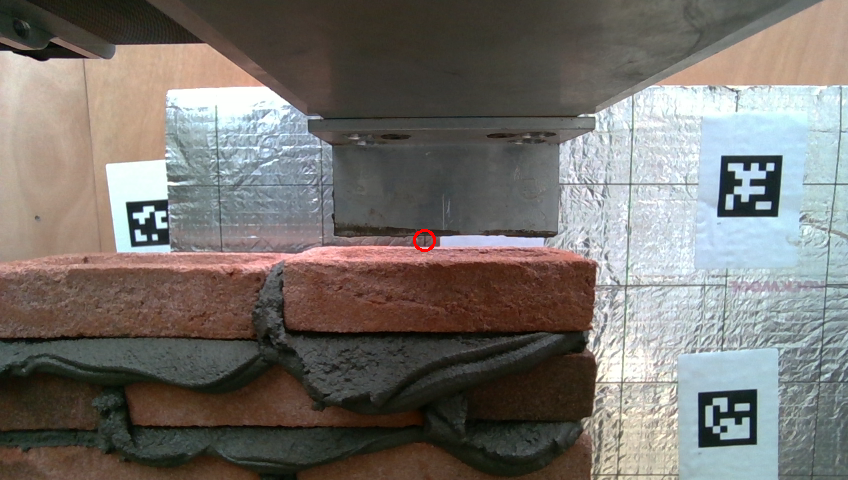
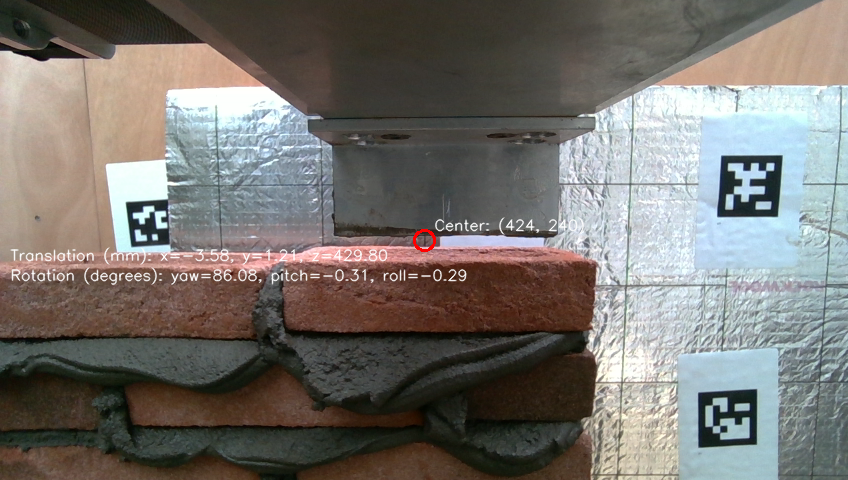
visualization

Changed region(s): [[0.0, 0.5, 0.5519, 0.5938], [0.5212, 0.4375, 0.6745, 0.5]]

diff --git a/templates/result.html b/templates/result.html
@@ -144,8 +144,9 @@
             </div>
             <div class="section">
                 <h2>Estimated 3D Pose Visualization</h2>
-                <img src="{{ result.pose_visualization_path }}" alt="Estimated 3D Pose">
+                <img src="{{ result.pose_visualization_path }}" alt="Estimated 3D Pose Visualization">
             </div>
+            
         {% endif %}
     </div>
     <div class="footer">

diff --git a/image_processing/image_processing.py b/image_processing/image_processing.py
@@ -56,7 +56,7 @@ def detect_brick_in_center(depth_image):
     print("No suitable contour found.")
     return None, (center_x, center_y)
 
-def draw_brick_boundaries(image, contour, center):
+def draw_brick_boundaries(image, contour, center, translation, rotation):
     # Draw the contour if available
     if contour is not None:
         cv2.drawContours(image, [contour], -1, (0, 255, 0), 2)
@@ -69,7 +69,36 @@ def draw_brick_boundaries(image, contour, center):
     cv2.putText(image, center_coords, (center[0] + 10, center[1] - 10), 
                 cv2.FONT_HERSHEY_SIMPLEX, 0.5, (255, 255, 255), 1, cv2.LINE_AA)
 
+    # Display 3D Pose Information
+    pose_text = (f"Translation (mm): x={translation[0]:.2f}, y={translation[1]:.2f}, z={translation[2]:.2f}\n"
+                 f"Rotation (degrees): yaw={rotation['yaw']:.2f}, pitch={rotation['pitch']:.2f}, roll={rotation['roll']:.2f}")
+    y_offset = center[1] + 20
+    for i, line in enumerate(pose_text.split('\n')):
+        cv2.putText(image, line, (10, y_offset + i * 20), cv2.FONT_HERSHEY_SIMPLEX, 0.5, (255, 255, 255), 1, cv2.LINE_AA)
+
     print("Drawing completed. Center coordinates:", center_coords)
+    print("3D Pose Information:", pose_text)
+
+    # Visualization of the Estimated 3D Pose
+    # Draw translation vector as an arrow
+    origin = (int(center[0]), int(center[1]))
+    translation_vector = (int(center[0] + translation[0] * 10), int(center[1] - translation[1] * 10))
+    cv2.arrowedLine(image, origin, translation_vector, (255, 255, 0), 2, tipLength=0.3)
+
+    # Visualize rotation using small arrows
+    rotation_vectors = {
+        'yaw': (np.cos(np.radians(rotation['yaw'])), np.sin(np.radians(rotation['yaw']))),
+        'pitch': (np.cos(np.radians(rotation['pitch'])), np.sin(np.radians(rotation['pitch']))),
+        'roll': (np.cos(np.radians(rotation['roll'])), np.sin(np.radians(rotation['roll'])))
+    }
+
+    # Drawing the rotation vectors
+    for angle_name, vector in rotation_vectors.items():
+        end_point = (int(center[0] + vector[0] * 50), int(center[1] + vector[1] * 50))
+        cv2.arrowedLine(image, origin, end_point, (0, 255, 255), 2, tipLength=0.3)
+        cv2.putText(image, angle_name, end_point, cv2.FONT_HERSHEY_SIMPLEX, 0.5, (0, 255, 255), 1, cv2.LINE_AA)
+
+    print("3D Pose Visualization drawn on image.")
 
 def calculate_3d_pose(depth_image, camera_params):
     fx = camera_params['fx']
@@ -112,7 +141,6 @@ def calculate_3d_pose(depth_image, camera_params):
     rotation_dict = {'yaw': rotation[0], 'pitch': rotation[1], 'roll': rotation[2]}
 
     return translation, rotation_dict
-
 def process_images_and_save_rgbd(folder_path):
     color_image_path = os.path.join(folder_path, 'color.png')
     depth_image_path = os.path.join(folder_path, 'depth.png')
@@ -136,26 +164,54 @@ def process_images_and_save_rgbd(folder_path):
     # Detect the brick and highlight it in the processed image
     brick_contour, center = detect_brick_in_center(depth_image)
     processed_image = color_image.copy()  # Use the original color image for drawing
+
+    # Calculate 3D pose
+    translation, rotation = calculate_3d_pose(depth_image, camera_params)
+
     if brick_contour is not None:
-        draw_brick_boundaries(processed_image, brick_contour, center)
+        draw_brick_boundaries(processed_image, brick_contour, center, translation, rotation)
     else:
         cv2.circle(processed_image, center, 10, (0, 0, 255), 2)  # Mark center if no contour found
         center_coords = f"Center: ({center[0]}, {center[1]})"
         cv2.putText(processed_image, center_coords, (center[0] + 10, center[1] - 10), 
                     cv2.FONT_HERSHEY_SIMPLEX, 0.5, (255, 255, 255), 1, cv2.LINE_AA)
+        # Display 3D Pose Information
+        pose_text = (f"Translation (mm): x={translation[0]:.2f}, y={translation[1]:.2f}, z={translation[2]:.2f}\n"
+                     f"Rotation (degrees): yaw={rotation['yaw']:.2f}, pitch={rotation['pitch']:.2f}, roll={rotation['roll']:.2f}")
+        y_offset = center[1] + 20
+        for i, line in enumerate(pose_text.split('\n')):
+            cv2.putText(processed_image, line, (10, y_offset + i * 20), cv2.FONT_HERSHEY_SIMPLEX, 0.5, (255, 255, 255), 1, cv2.LINE_AA)
+
+        # Visualization of the Estimated 3D Pose
+        # Draw translation vector as an arrow
+        origin = (int(center[0]), int(center[1]))
+        translation_vector = (int(center[0] + translation[0] * 10), int(center[1] - translation[1] * 10))
+        cv2.arrowedLine(processed_image, origin, translation_vector, (255, 255, 0), 2, tipLength=0.3)
+
+        # Visualize rotation using small arrows
+        rotation_vectors = {
+            'yaw': (np.cos(np.radians(rotation['yaw'])), np.sin(np.radians(rotation['yaw']))),
+            'pitch': (np.cos(np.radians(rotation['pitch'])), np.sin(np.radians(rotation['pitch']))),
+            'roll': (np.cos(np.radians(rotation['roll'])), np.sin(np.radians(rotation['roll'])))
+        }
+
+        # Drawing the rotation vectors
+        for angle_name, vector in rotation_vectors.items():
+            end_point = (int(center[0] + vector[0] * 50), int(center[1] + vector[1] * 50))
+            cv2.arrowedLine(processed_image, origin, end_point, (0, 255, 255), 2, tipLength=0.3)
+            cv2.putText(processed_image, angle_name, end_point, cv2.FONT_HERSHEY_SIMPLEX, 0.5, (0, 255, 255), 1, cv2.LINE_AA)
 
     results_dir = os.path.join(settings.MEDIA_ROOT, 'results')
     os.makedirs(results_dir, exist_ok=True, mode=0o755)
     
     rgbd_image_path = os.path.join(results_dir, f'{os.path.basename(folder_path)}_rgbd.png')
     processed_image_path = os.path.join(results_dir, f'{os.path.basename(folder_path)}_processed.png')
+    pose_visualization_path = os.path.join(results_dir, f'{os.path.basename(folder_path)}_pose_visualization.png')
 
     # Save images
     cv2.imwrite(rgbd_image_path, rgbd_image)
     cv2.imwrite(processed_image_path, processed_image)
-
-    # Calculate 3D pose
-    translation, rotation = calculate_3d_pose(depth_image, camera_params)
+    cv2.imwrite(pose_visualization_path, processed_image)
 
     # Return the paths and pose information
-    return rgbd_image_path, processed_image_path, np.mean(rgbd_image), translation, rotation
+    return rgbd_image_path, processed_image_path, pose_visualization_path, np.mean(rgbd_image), translation, rotation

diff --git a/brickpose/views.py b/brickpose/views.py
@@ -81,6 +81,7 @@ def display_results(request):
     depth_image_path = None
     rgbd_image_path = None
     processed_image_path = None
+    pose_visualization_path = None
     processed_image_mean_intensity = None
     camera_params = None
     formatted_translation = None
@@ -91,13 +92,16 @@ def display_results(request):
         color_image_path = os.path.join(settings.MEDIA_URL, 'place_quality_inputs', selected_folder, 'color.png')
         depth_image_path = os.path.join(settings.MEDIA_URL, 'place_quality_inputs', selected_folder, 'depth.png')
 
-        absolute_rgbd_image_path, absolute_processed_image_path, processed_image_mean_intensity, translation, rotation = process_images_and_save_rgbd(folder_path)
+        absolute_rgbd_image_path, absolute_processed_image_path, absolute_pose_visualization_path, processed_image_mean_intensity, translation, rotation = process_images_and_save_rgbd(folder_path)
         if absolute_rgbd_image_path:
             relative_rgbd_path = os.path.relpath(absolute_rgbd_image_path, settings.MEDIA_ROOT)
             rgbd_image_path = os.path.join(settings.MEDIA_URL, relative_rgbd_path).replace("\\", "/")
         if absolute_processed_image_path:
             relative_processed_path = os.path.relpath(absolute_processed_image_path, settings.MEDIA_ROOT)
             processed_image_path = os.path.join(settings.MEDIA_URL, relative_processed_path).replace("\\", "/")
+        if absolute_pose_visualization_path:
+            relative_pose_visualization_path = os.path.relpath(absolute_pose_visualization_path, settings.MEDIA_ROOT)
+            pose_visualization_path = os.path.join(settings.MEDIA_URL, relative_pose_visualization_path).replace("\\", "/")
 
         try:
             with open(os.path.join(folder_path, 'cam.json'), 'r') as f:
@@ -113,6 +117,7 @@ def display_results(request):
             'depth_image_path': depth_image_path,
             'rgbd_image_path': rgbd_image_path,
             'processed_image_path': processed_image_path,
+            'pose_visualization_path': pose_visualization_path,
             'processed_image_mean_intensity': processed_image_mean_intensity,
             'camera_params': camera_params,
             'translation': formatted_translation,
